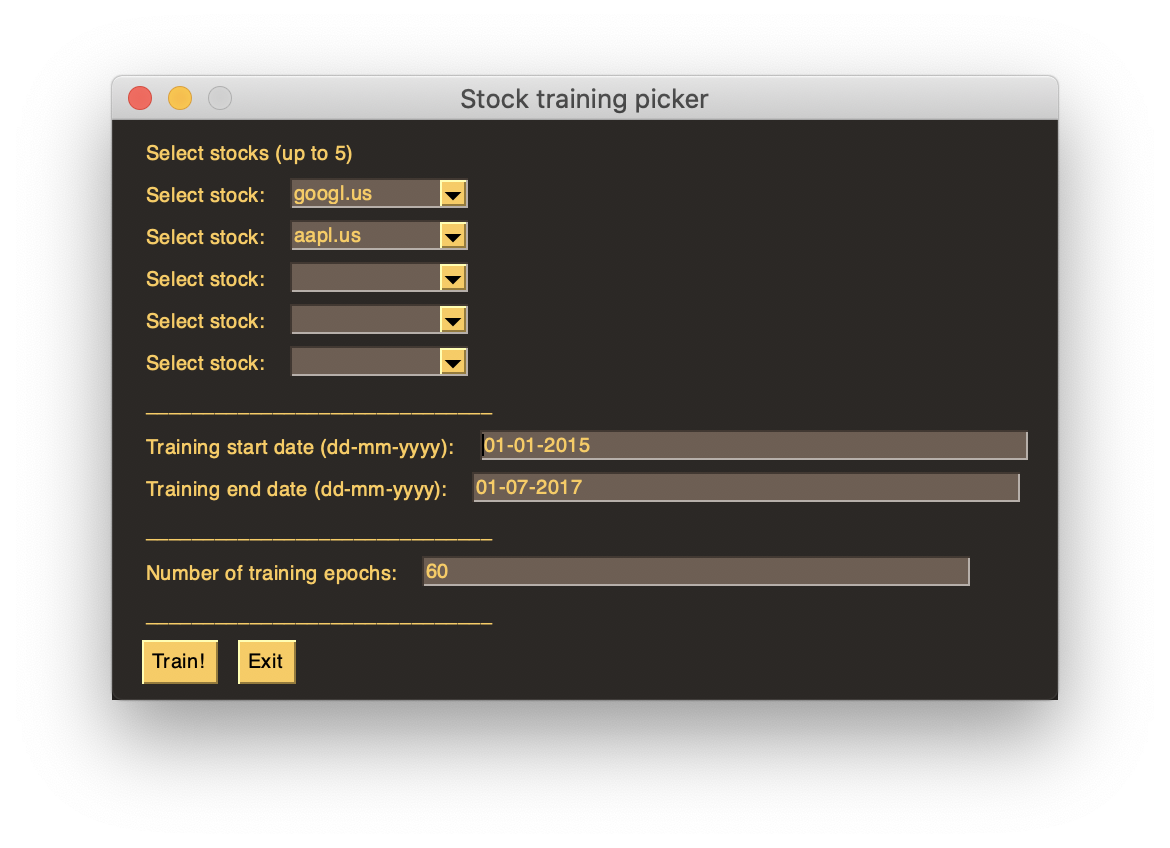
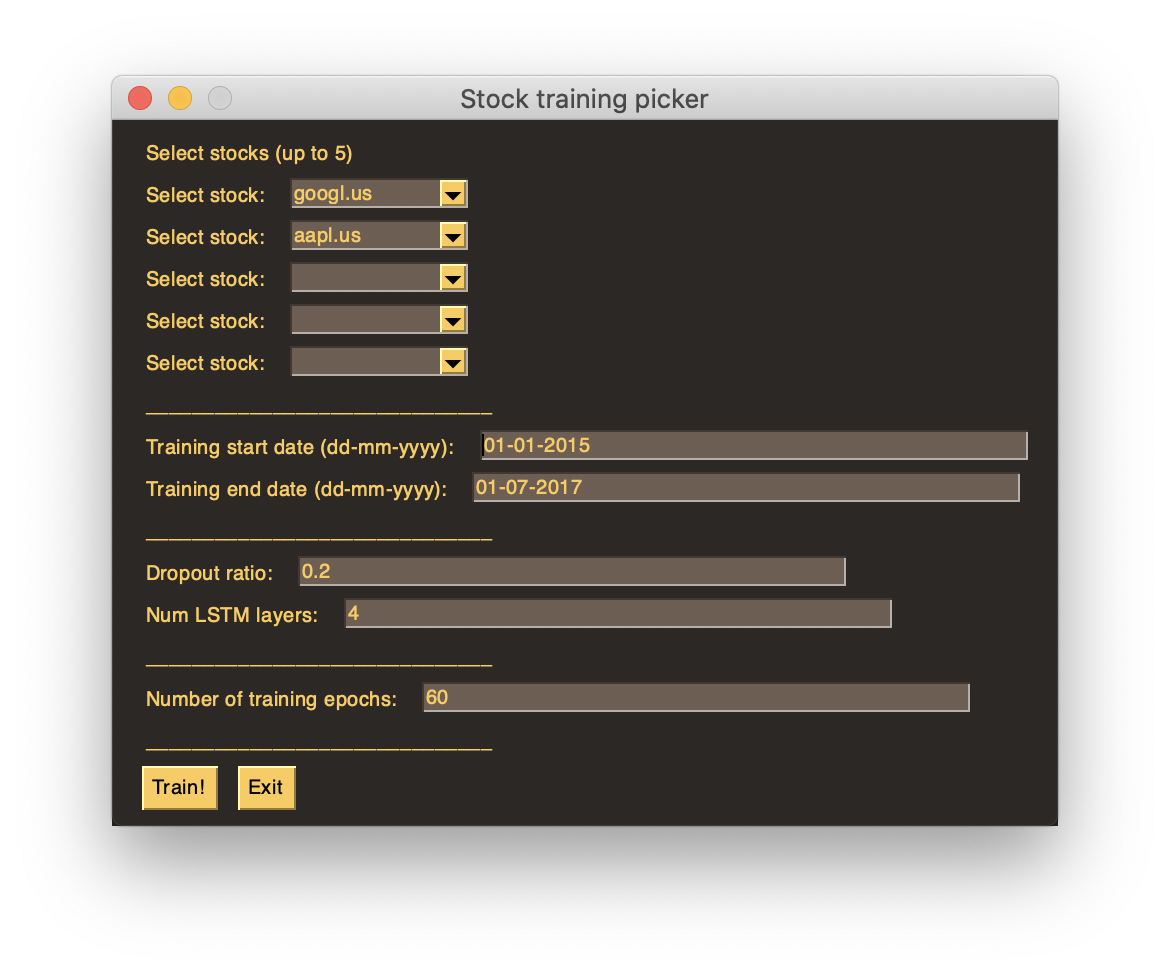
Add explicit option to modify LSTM layers and dropout ratio

Changed region(s): [[0.0923, 0.0613, 0.9231, 0.8585]]

diff --git a/train.py b/train.py
@@ -102,21 +102,22 @@ def prepare_data(df, test_fraction=0.2):
     return X_train, y_train, X_test, y_test, ticker_data, scalers
 
 
-def train_model(X_train, y_train, epochs):
+def train_model(X_train, y_train, epochs, n_lstm=4, dropout=0.2):
     """Creates and trains LSTM regressor model"""
+    if n_lstm < 2:
+        raise ValueError("n_lstm must be at least 2")
+
     regressor = Sequential()
 
     regressor.add(LSTM(units=50, return_sequences=True, input_shape=(X_train.shape[1], X_train.shape[2])))
-    regressor.add(Dropout(0.2))
+    regressor.add(Dropout(dropout))
 
-    regressor.add(LSTM(units=50, return_sequences=True))
-    regressor.add(Dropout(0.2))
-
-    regressor.add(LSTM(units=50, return_sequences=True))
-    regressor.add(Dropout(0.2))
+    for i in range(n_lstm-2):
+        regressor.add(LSTM(units=50, return_sequences=True))
+        regressor.add(Dropout(dropout))
 
     regressor.add(LSTM(units=50))
-    regressor.add(Dropout(0.2))
+    regressor.add(Dropout(dropout))
 
     regressor.add(Dense(units=1))
 
@@ -250,7 +251,7 @@ def evaluate_model(model, X_test, y_test, ticker_data, scalers, n_days=14):
     return metrics, preds
 
 
-def train(tickers, date_range, epochs):
+def train(tickers, date_range, epochs, n_lstm, dropout_ratio):
     """The main function
 
     Calls functions for the following steps:
@@ -261,6 +262,8 @@ def train(tickers, date_range, epochs):
     :param tickers: <list> ticker names corresponding to dataset
     :param date_range: <tuple of len 2> holds two datetime objects, start and end date
     :param epochs: <int> number of epochs to train for
+    :param n_lstm: <int> number of LSTM layers in the architecture
+    :param dropout_ratio: <float> dropout ratio
     :return:
     """
     start_time = time.time()
@@ -268,7 +271,7 @@ def train(tickers, date_range, epochs):
 
     X_train, y_train, X_test, y_test, ticker_data, scalers = prepare_data(df)
 
-    regressor = train_model(X_train, y_train, epochs)
+    regressor = train_model(X_train, y_train, epochs, n_lstm=n_lstm, dropout=dropout_ratio)
 
     metrics, preds = evaluate_model(regressor, X_test, y_test, ticker_data, scalers)
 
@@ -293,6 +296,10 @@ parser.add_argument('--dates', '-d', type=str,
                     help='start and end date for training data selection, separated by a comma')
 parser.add_argument('--epochs', '-e', type=int, default=60,
                     help='number of epochs to train for')
+parser.add_argument('--lstm', '-l', type=int, default=4,
+                    help='number of LSTM layers')
+parser.add_argument('--dropout', type=float, default=0.2,
+                    help='dropout ratio')
 
 if __name__ == "__main__":
     # Execute the parse_args() method
@@ -316,5 +323,19 @@ if __name__ == "__main__":
         date_range = parse_date(start_date), parse_date(end_date)
         print("Using date range:", date_range)
 
-    train(tickers, date_range, args.epochs)
+    if args.lstm is None:
+        n_lstm = 4
+        print("Using default number of LSTM layers:", n_lstm)
+    else:
+        n_lstm = args.lstm
+        print("Using number of LSTM layers:", n_lstm)
+
+    if args.dropout is None:
+        dropout_ratio = 0.2
+        print("Using default dropout ratio:", dropout_ratio)
+    else:
+        dropout_ratio = args.dropout
+        print("Using dropout ratio:", dropout_ratio)
+
+    train(tickers, date_range, args.epochs, n_lstm, dropout_ratio)
     reporting.create_html_report()

diff --git a/train_gui.py b/train_gui.py
@@ -27,6 +27,9 @@ layout = [[sg.Text('Select stocks (up to 5)')],
           [sg.Text('Training start date (dd-mm-yyyy): '), sg.InputText(default_text="01-01-2015", key='start_date')],
           [sg.Text('Training end date (dd-mm-yyyy): '), sg.InputText(default_text="01-07-2017", key='end_date')],
           [sg.Text('_'*30)],
+          [sg.Text('Dropout ratio: '), sg.InputText(default_text="0.2", key='dropout_ratio')],
+          [sg.Text('Num LSTM layers: '), sg.InputText(default_text="4", key='num_lstm')],
+          [sg.Text('_'*30)],
           [sg.Text('Number of training epochs: '), sg.InputText(default_text="60", key='epochs')],
           [sg.Text('_'*30)],
           [sg.Button('Train!'), sg.Button('Exit')]]
@@ -47,10 +50,18 @@ while True:
     print(f"{values['start_date']} -> {values['end_date']}")
 
     if event == "Train!":
+        print("COMMAND LIST\n", ["python", "train.py",
+                          "--tickers", ",".join(tickers),
+                          "--dates", f"{values['start_date']},{values['end_date']}",
+                          "--epochs", str(values['epochs']),
+                          "--lstm", str(values['epochs']),
+                          "--dropout", str(values['dropout_ratio'])])
         subprocess.Popen(["python", "train.py",
                           "--tickers", ",".join(tickers),
                           "--dates", f"{values['start_date']},{values['end_date']}",
-                          "--epochs", str(values['epochs'])])
+                          "--epochs", str(values['epochs']),
+                          "--lstm", str(values['num_lstm']),
+                          "--dropout", str(values['dropout_ratio'])])
         window.close()
 
 window.close()
